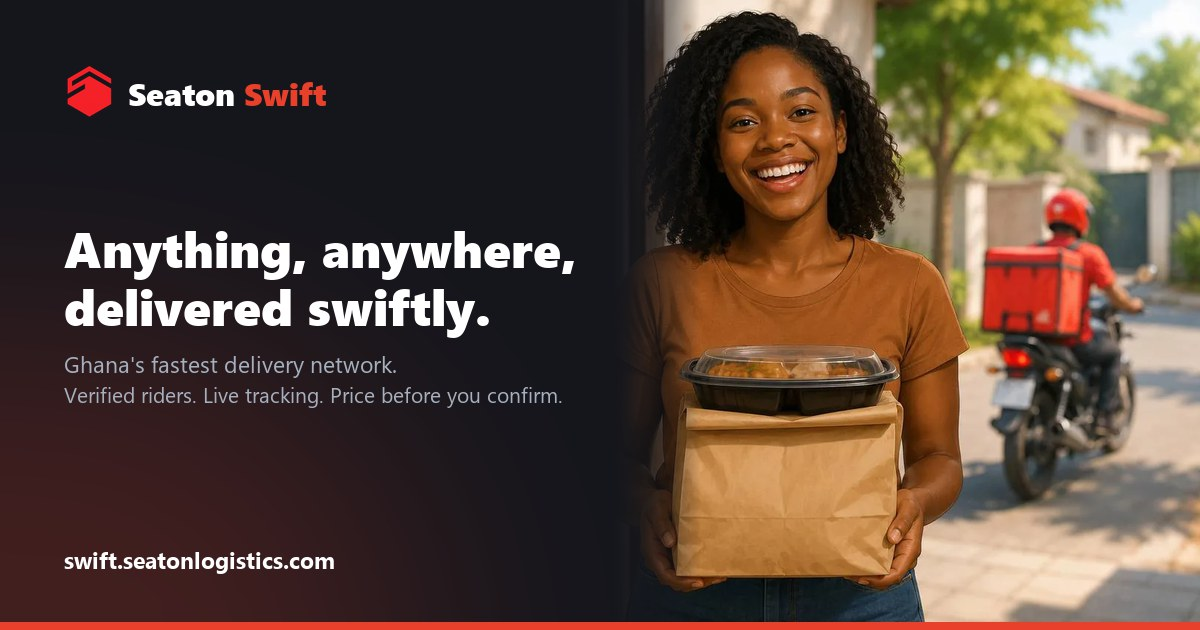
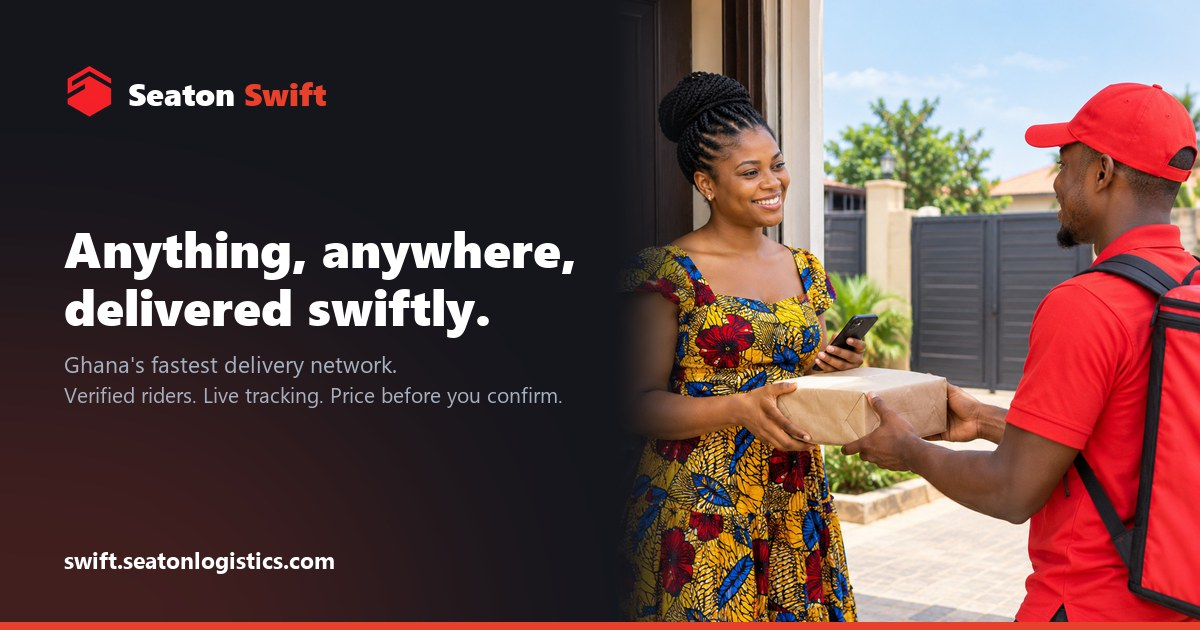
Website: photographs replace the illustrations, and the live badge goes
Every picture on the site now comes from the same photo set as the printed
flyers, so a flyer and the website show the same riders, jackets and streets:
the home slideshow, the nine gallery slides, the photo card on For Riders,
For Shops and About, and the link preview card.

Originals live in assets-src/photos/. The new make-web-images.py crops each
one to the slot it fills and writes the .webp files, so a photo is swapped by
editing one line and re-running it. The old illustrated files are deleted.

Gallery captions follow the new photos (students, Macho, office move).
"Real riders, real shops, real streets." is dropped: next to lifelike
photos it reads as a claim. The "Now live in the Ashanti Region" pill is
removed from the home hero.

Mirrors Kimpisky/seaton-delivery-app dda16f9.

diff --git a/components/Gallery.tsx b/components/Gallery.tsx
@@ -7,10 +7,12 @@ import { useEffect, useRef, useState } from "react";
    SWAPPING THE PHOTOS
    -------------------
    Photos live in `website/public/gallery/` and are wired to the `image` values
-   below (e.g. image: "/gallery/swift4.webp"). To change one, drop the new file
-   in that folder and update its `image` — the path starts at /gallery/, NOT
-   /public/gallery/. A slide with no `image` falls back to a branded gradient
-   `scene`, so the section never breaks. Add or remove slides freely.
+   below (e.g. image: "/gallery/food.webp"). They are built from the originals
+   in assets-src/photos/ by assets-src/make-web-images.py, which also sets each
+   crop; to change one, edit that script and re-run it. The path starts at
+   /gallery/, NOT /public/gallery/. A slide with no `image` falls back to a
+   branded gradient `scene`, so the section never breaks. Add or remove slides
+   freely.
 
    PERFORMANCE: this section sits below the fold, so images are lazy-loaded and
    only the current + next slide are mounted. A first visit downloads none of
@@ -29,17 +31,17 @@ type Slide = {
 };
 
 // Walks the full journey and all three services: pickup → doorstep → the rider
-// fleet → Carry (tricycle/small truck) → Move (full relocations).
+// fleet → Carry (aboboyaa/Macho) → Move (full relocations).
 const slides: Slide[] = [
-  { key: "shop-pickup", image: "/gallery/swift4.webp", title: "Picked up from your shop", caption: "Your rider arrives, collects the order, and is on the road in minutes." },
-  { key: "food", image: "/gallery/swift1.webp", title: "Hot food, still hot", caption: "Meals and everyday parcels delivered straight to the customer's door." },
-  { key: "doorstep", image: "/gallery/swift5.webp", title: "Right to the doorstep", caption: "Fast, safe hand-offs your customers can count on, every time." },
-  { key: "riders", image: "/gallery/swift2.webp", title: "Riders on every street", caption: "Verified riders online and ready across the Ashanti Region, all day." },
-  { key: "bulky-bike", image: "/gallery/swift3.webp", title: "More than a small parcel", caption: "Awkward, bulky orders strapped down and moved safely on two wheels." },
-  { key: "market", image: "/gallery/carry1.webp", title: "Market runs, sorted", caption: "Aboboyaa tricycles hauling sacks and bulk stock across town." },
-  { key: "small-truck", image: "/gallery/carry2.webp", title: "Small trucks for bigger loads", caption: "When it's too big for a bike, Carry brings a truck to your door." },
-  { key: "home-move", image: "/gallery/move1.webp", title: "Full moves with helpers", caption: "Trained helpers load, move, and unload your home or office." },
-  { key: "moving-day", image: "/gallery/move3.webp", title: "Moving day made easy", caption: "Hostel, home, or office. Move handles all the heavy lifting." },
+  { key: "shop-pickup", image: "/gallery/shop-counter.webp", title: "Picked up from your shop", caption: "Your rider arrives, collects the order, and is on the road in minutes." },
+  { key: "food", image: "/gallery/food.webp", title: "Hot food, still hot", caption: "Meals and everyday parcels delivered straight to the customer's door." },
+  { key: "doorstep", image: "/gallery/doorstep.webp", title: "Right to the doorstep", caption: "Fast, safe hand-offs your customers can count on, every time." },
+  { key: "riders", image: "/gallery/on-the-road.webp", title: "Riders on every street", caption: "Verified riders online and ready across the Ashanti Region, all day." },
+  { key: "market", image: "/gallery/market.webp", title: "Market runs, sorted", caption: "Aboboyaa tricycles hauling sacks and bulk stock across town." },
+  { key: "students", image: "/gallery/students.webp", title: "Student loads, carried", caption: "Chop box, trunk and mattress on one aboboyaa. Ask for help loading when you book." },
+  { key: "small-truck", image: "/gallery/macho.webp", title: "Small trucks for bigger loads", caption: "When it's too big for a bike, Carry brings a Macho to your door." },
+  { key: "home-move", image: "/gallery/home-move.webp", title: "Full moves with helpers", caption: "Trained helpers load, move, and unload, from the truck to your door." },
+  { key: "office-move", image: "/gallery/office-move.webp", title: "Office moves, handled", caption: "Desks, filing cabinets and screens, moved in a truck sized to the job." },
 ];
 
 /** "/gallery/x.webp" → "/gallery/x-800.webp 800w, /gallery/x.webp 1280w" */

diff --git a/components/HeroBackdrop.tsx b/components/HeroBackdrop.tsx
@@ -7,9 +7,10 @@ import { useEffect, useState } from "react";
    SWAPPING THE PHOTOS
    -------------------
    Photos live in  website/public/hero/  and are wired to the `src` values below
-   (e.g. src: "/hero/swift1.webp"). To change one, drop the new file in that
-   folder and update its `src` — the path starts at /hero/, NOT /public/hero/.
-   Prefer .webp (see scripts note in the README of public/) and keep five slides.
+   (e.g. src: "/hero/road.webp"). They are built from the originals in
+   assets-src/photos/ by assets-src/make-web-images.py, which also sets each
+   crop; to change one, edit that script and re-run it. The path starts at
+   /hero/, NOT /public/hero/. Keep five slides.
    If a `src` is left empty the slide falls back to its branded gradient `scene`.
 
    PERFORMANCE: every slide sits stacked in the viewport, so `loading="lazy"`
@@ -29,11 +30,11 @@ type Slide = { key: string; src?: string; scene: string };
 
 // Ordered to tell the three-service story: Swift → Swift → riders → Carry → Move.
 const slides: Slide[] = [
-  { key: "s1", src: "/hero/swift1.webp", scene: "linear-gradient(135deg,#E8402A 0%,#B4291A 100%)" },
-  { key: "s2", src: "/hero/swift5.webp", scene: "linear-gradient(135deg,#23262E 0%,#111318 100%)" },
-  { key: "s3", src: "/hero/swift2.webp", scene: "linear-gradient(135deg,#E8402A 0%,#8F1F13 100%)" },
-  { key: "s4", src: "/hero/carry1.webp", scene: "linear-gradient(135deg,#2A2D36 0%,#14161C 100%)" },
-  { key: "s5", src: "/hero/move3.webp", scene: "linear-gradient(135deg,#C9331F 0%,#7E1B10 100%)" },
+  { key: "s1", src: "/hero/road.webp", scene: "linear-gradient(135deg,#E8402A 0%,#B4291A 100%)" },
+  { key: "s2", src: "/hero/food.webp", scene: "linear-gradient(135deg,#23262E 0%,#111318 100%)" },
+  { key: "s3", src: "/hero/rider.webp", scene: "linear-gradient(135deg,#E8402A 0%,#8F1F13 100%)" },
+  { key: "s4", src: "/hero/carry.webp", scene: "linear-gradient(135deg,#2A2D36 0%,#14161C 100%)" },
+  { key: "s5", src: "/hero/move.webp", scene: "linear-gradient(135deg,#C9331F 0%,#7E1B10 100%)" },
 ];
 
 export default function HeroBackdrop() {

diff --git a/app/page.tsx b/app/page.tsx
@@ -232,13 +232,6 @@ export default function HomePage() {
 
         <div className="max-w-6xl mx-auto px-5 py-20 w-full grid lg:grid-cols-2 gap-12 items-center relative">
           <div>
-            <div className="inline-flex items-center gap-2 bg-white/15 backdrop-blur border border-white/25 rounded-full px-4 py-1.5 text-xs font-medium text-white mb-6">
-              <span className="relative flex w-2 h-2">
-                <span className="absolute inline-flex w-full h-full rounded-full bg-green-500 opacity-70 animate-ping" />
-                <span className="relative inline-flex w-2 h-2 rounded-full bg-green-500" />
-              </span>
-              Now live in the Ashanti Region 🇬🇭
-            </div>
             <h1 className="text-4xl sm:text-5xl lg:text-[3.7rem] font-extrabold leading-[1.05] tracking-tight mb-5 text-white drop-shadow-sm">
               Anything, anywhere,<br />
               <span className="text-brand">delivered swiftly.</span>
@@ -348,7 +341,7 @@ export default function HomePage() {
               <span className="text-brand-text text-xs font-semibold uppercase tracking-widest">Seaton Swift in motion</span>
               <h2 className="text-3xl sm:text-4xl font-extrabold mt-2 mb-4">A delivery network you can see</h2>
               <p className="text-muted leading-relaxed mb-6">
-                Real riders, real shops, real streets. From the busiest market to a quiet neighbourhood, Seaton Swift keeps your city moving, and you always know where your package is.
+                From the busiest market to a quiet neighbourhood, Seaton Swift keeps your city moving, and you always know where your package is.
               </p>
               <ul className="space-y-3">
                 {["Trusted riders across the Ashanti Region", "Businesses of every size, one platform", "Every parcel tracked to the doorstep"].map((t) => (

diff --git a/app/about/page.tsx b/app/about/page.tsx
@@ -46,8 +46,8 @@ export default function AboutPage() {
         title="Built in Ghana."
         accent="Built for Ghana."
         subtitle="Seaton Swift was born from a simple observation: Ghanaian businesses needed a fast, reliable, affordable way to reach their customers, and no existing platform was built with them in mind."
-        image="/gallery/carry1.webp"
-        imageAlt="A Seaton Swift tricycle carrying bulk goods through a Ghanaian market street"
+        image="/gallery/page-about.webp"
+        imageAlt="A Seaton Swift aboboyaa loaded with sacks and crates at a Kumasi market while the rider ties the load down"
         chip={{ label: "Serving", value: "Ashanti" }}
       />
 

diff --git a/app/for-shops/page.tsx b/app/for-shops/page.tsx
@@ -83,8 +83,8 @@ export default function ForShopsPage() {
         title="Stop worrying about"
         accent="delivery."
         subtitle="Your customers expect fast delivery. Seaton Swift gives you a fleet of verified riders on demand, with no contracts, no monthly fees and no phone calls."
-        image="/gallery/swift4.webp"
-        imageAlt="A shop owner handing a packed order to a Seaton Swift rider"
+        image="/gallery/page-shops.webp"
+        imageAlt="A pharmacist handing a sealed pharmacy bag and an envelope to a Seaton Swift rider"
         chip={{ label: "Matched in", value: "~2 min" }}
         actions={
           <>

diff --git a/app/for-riders/page.tsx b/app/for-riders/page.tsx
@@ -100,8 +100,8 @@ export default function ForRidersPage() {
         title="Turn your bike into a"
         accent="business."
         subtitle="Earn on your own schedule. No boss, no fixed hours. Just you, your bike, and steady work from shops across Ghana."
-        image="/gallery/swift2.webp"
-        imageAlt="Seaton Swift riders online and waiting for deliveries"
+        image="/gallery/page-riders.webp"
+        imageAlt="A smiling Seaton Swift rider on his red motorbike on a Kumasi street, checking his phone"
         chip={{ label: "You keep up to", value: "90%" }}
         actions={
           <>

diff --git a/assets-src/make-web-images.py b/assets-src/make-web-images.py
@@ -1,0 +1,70 @@
+"""Builds every photo the website shows from the originals in assets-src/photos/.
+
+Run from the `website/` directory:
+
+    python assets-src/make-web-images.py
+
+Each job crops one original to the shape of the slot it fills, then writes a
+1280px .webp (quality 82, method 6) into public/, plus a -800 variant where the
+component offers one through srcset (the gallery and the page heroes).
+
+The crop is centred on a focus point given as fractions of the original
+(0.5, 0.5 is the middle) and clamped so it never leaves the picture. When a
+new original goes in, set the focus so the faces and the goods stay in frame.
+"""
+
+from pathlib import Path
+from PIL import Image
+
+ROOT = Path(__file__).resolve().parent.parent
+SRC = ROOT / "assets-src/photos"
+
+WIDE = 3 / 2   # home slideshow and gallery
+CARD = 4 / 3   # PageHero photo card
+
+# (original, output under public/, aspect, focus x, focus y, -800 variant)
+JOBS = [
+    # Home page slideshow, full-bleed behind the headline. The headline and a
+    # dark scrim sit on the left, so the subject should sit centre or right.
+    ("rider-road.jpg",      "hero/road.webp",            WIDE, 0.58, 0.50, False),
+    ("food.jpg",            "hero/food.webp",            WIDE, 0.50, 0.54, False),
+    ("rider-kumasi.jpg",    "hero/rider.webp",           WIDE, 0.50, 0.38, False),
+    ("aboboyaa-market.jpg", "hero/carry.webp",           WIDE, 0.50, 0.42, False),
+    ("sofa-move.jpg",       "hero/move.webp",            WIDE, 0.50, 0.50, False),
+
+    # Home page gallery ("Seaton Swift in motion"), in slide order.
+    ("shop-counter.jpg",    "gallery/shop-counter.webp", WIDE, 0.50, 0.42, True),
+    ("food.jpg",            "gallery/food.webp",         WIDE, 0.50, 0.54, True),
+    ("doorstep.jpg",        "gallery/doorstep.webp",     WIDE, 0.50, 0.40, True),
+    ("rider-road.jpg",      "gallery/on-the-road.webp",  WIDE, 0.58, 0.50, True),
+    ("market-load.jpg",     "gallery/market.webp",       WIDE, 0.50, 0.60, True),
+    ("students.jpg",        "gallery/students.webp",     WIDE, 0.50, 0.50, True),
+    ("macho.jpg",           "gallery/macho.webp",        WIDE, 0.50, 0.55, True),
+    ("home-move.jpg",       "gallery/home-move.webp",    WIDE, 0.50, 0.53, True),
+    ("office-move.jpg",     "gallery/office-move.webp",  WIDE, 0.50, 0.50, True),
+
+    # PageHero photo cards on the inner pages.
+    ("rider-recruit.jpg",   "gallery/page-riders.webp",  CARD, 0.00, 0.50, True),
+    ("pharmacy.jpg",        "gallery/page-shops.webp",   CARD, 0.50, 0.56, True),
+    ("market-load.jpg",     "gallery/page-about.webp",   CARD, 0.50, 0.60, True),
+]
+
+
+def crop(img, aspect, fx, fy):
+    """The largest crop of `aspect` centred on (fx, fy), kept inside the image."""
+    w, h = img.size
+    cw, ch = (round(h * aspect), h) if w / h > aspect else (w, round(w / aspect))
+    left = min(max(round(fx * w - cw / 2), 0), w - cw)
+    top = min(max(round(fy * h - ch / 2), 0), h - ch)
+    return img.crop((left, top, left + cw, top + ch))
+
+
+for src, out, aspect, fx, fy, small in JOBS:
+    img = crop(Image.open(SRC / src).convert("RGB"), aspect, fx, fy)
+    dest = ROOT / "public" / out
+    sizes = [(1280, dest)]
+    if small:
+        sizes.append((800, dest.with_name(dest.stem + "-800.webp")))
+    for width, path in sizes:
+        img.resize((width, round(width / aspect)), Image.LANCZOS).save(path, "WEBP", quality=82, method=6)
+        print(f"{path.relative_to(ROOT)}  {path.stat().st_size // 1024} KB")

diff --git a/assets-src/make-og-image.py b/assets-src/make-og-image.py
@@ -52,7 +52,7 @@ def cover(img, w, h):
 card = Image.new("RGB", (W, H), INK)
 
 # ── right side: photo ────────────────────────────────────────────────────────
-photo = cover(Image.open(ROOT / "public/hero/swift1.webp").convert("RGB"), W - PANEL + FADE, H)
+photo = cover(Image.open(ROOT / "assets-src/photos/doorstep.jpg").convert("RGB"), W - PANEL + FADE, H)
 # Fade the photo's left edge into the panel.
 mask = Image.new("L", photo.size, 255)
 mdraw = ImageDraw.Draw(mask)

diff --git a/assets-src/README.md b/assets-src/README.md
@@ -4,9 +4,18 @@ These are the full-quality originals. `website/public/` ships the optimised
 `.webp` derivatives instead (plus `-800.webp` variants used via srcset).
 
 Nothing here is served — it sits outside `public/` deliberately.
-To regenerate the web versions after adding or replacing an original, re-run the
-Pillow conversion (quality 82, `method=6`) and drop the output into
-`public/hero/` or `public/gallery/`.
+
+## Site photos
+
+`photos/` holds one original per scene. `make-web-images.py` crops each one to
+the shape of the slot it fills (the home slideshow, the gallery, the photo card
+on the inner pages) and writes the `.webp` files into `public/hero/` and
+`public/gallery/`. Run it from `website/`:
+
+    python assets-src/make-web-images.py
+
+To swap a photo, drop the new original in `photos/`, point its job at it in the
+script, set the focus point so faces and goods stay in frame, and re-run.
 
 ## Share card
 
@@ -16,5 +25,5 @@ Run it from `website/`:
 
     python assets-src/make-og-image.py
 
-Re-run it if the tagline, logo or hero photo changes. The matching
+Re-run it if the tagline, logo or photo changes. The matching
 `app/*-image.alt.txt` files hold the alt text and are edited by hand.
